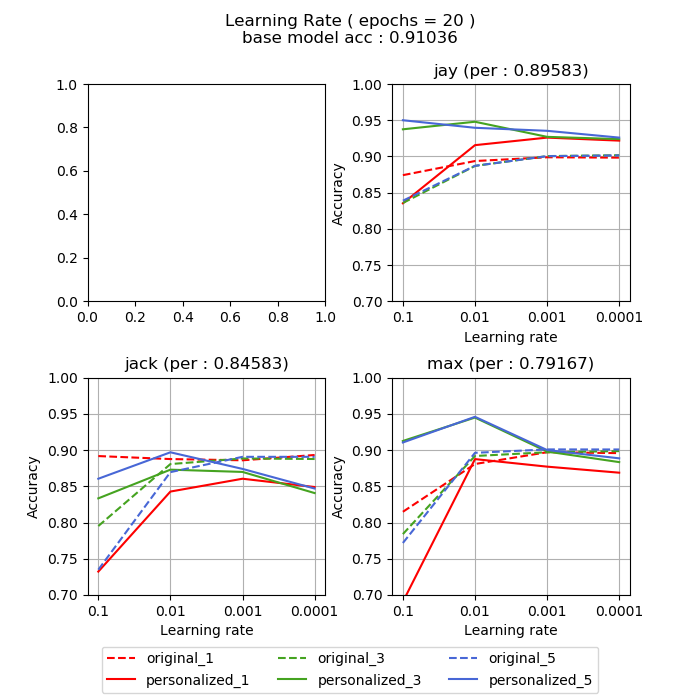
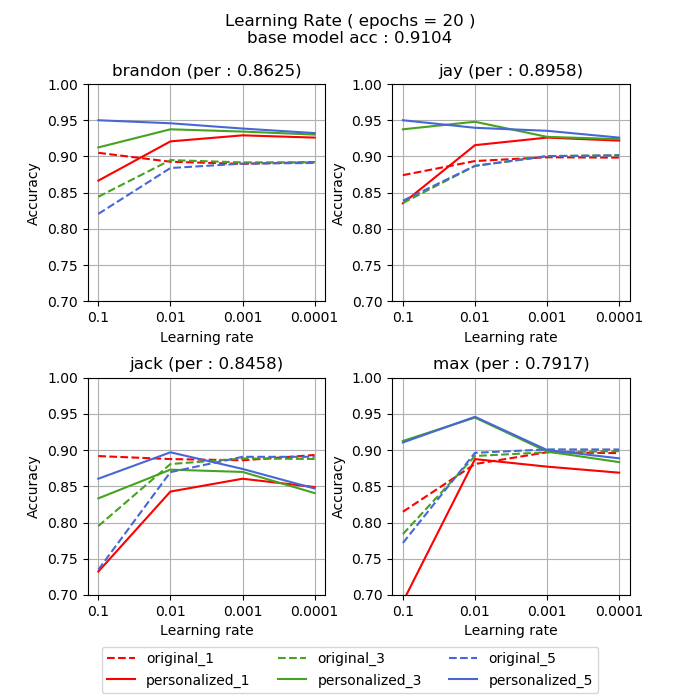
updated graphs

diff --git a/graphs/epoch.py b/graphs/epoch.py
@@ -69,7 +69,7 @@ for person, axis in axs_mapping.items():
     original_dict = original[person]
     personalized_dict = personalized[person]
 
-    axis.set_title('{0} (per : {1})'.format(person, per_acc[person]))
+    axis.set_title('{0} (per : {1})'.format(person, round(per_acc[person], 4)))
     axis.set(xlabel='Epochs', ylabel='Accuracy', xticks=epochs[::2])
     axis.set_ylim(0.75, 1.0)
     axis.grid()
@@ -89,7 +89,7 @@ fig.legend(legends,     # The line objects
            )
 
 fig.subplots_adjust(bottom=0.15, wspace=0.28, hspace=0.35)
-fig.suptitle('Epochs ( learning rate = {0} )\nbase model acc : {1}'.format(learning_rate, base_model_acc))
+fig.suptitle('Epochs ( learning rate = {0} )\nbase model acc : {1}'.format(learning_rate, round(base_model_acc, 4)))
 
 fig.savefig("epoch.png")
 plt.show()

diff --git a/graphs/learning_rate.py b/graphs/learning_rate.py
@@ -73,7 +73,7 @@ for person, axis in axs_mapping.items():
     original_dict = original[person]
     personalized_dict = personalized[person]
 
-    axis.set_title('{0} (per : {1})'.format(person, per_acc[person]))
+    axis.set_title('{0} (per : {1})'.format(person, round(per_acc[person], 4)))
 
     axis.set(xlabel='Learning rate', ylabel='Accuracy', xticks=x_ticks, xticklabels=lr)
     axis.set_ylim(0.7, 1.0)
@@ -94,7 +94,7 @@ fig.legend(legends,     # The line objects
            )
 
 fig.subplots_adjust(bottom=0.15, wspace=0.28, hspace=0.35)
-fig.suptitle('Learning Rate ( epochs = {0} )\nbase model acc : {1}'.format(epochs, base_model_acc))
+fig.suptitle('Learning Rate ( epochs = {0} )\nbase model acc : {1}'.format(epochs, round(base_model_acc, 4)))
 
 fig.savefig("learning_rate.png")
 plt.show()
